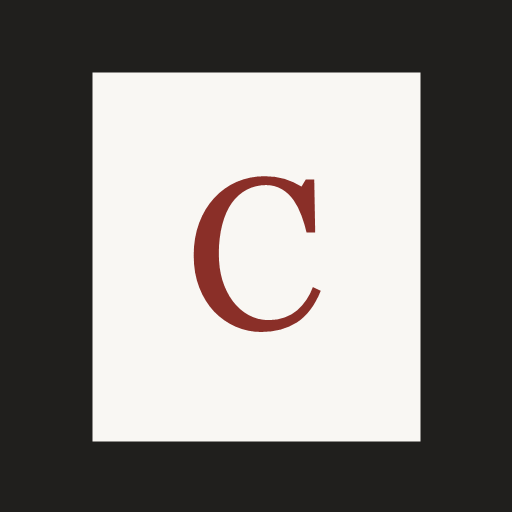
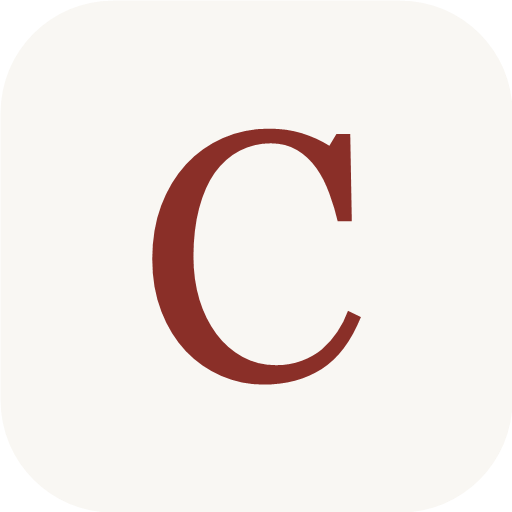
Ícono sin fondo negro
El ícono pasa a ser la hoja color papel con la C roja, de borde a
borde, y suma una versión adaptable (maskable) para que el sistema
pueda recortarlo en círculo o cuadrado sin que asome el negro.

diff --git a/sw.js b/sw.js
@@ -1,6 +1,6 @@
 // Guarda la app en caché para que funcione sin conexión.
 // Al cambiar archivos de la app, subí VERSION para que se actualice.
-const VERSION = 'capital-v21';
+const VERSION = 'capital-v22';
 const CORE = [
   './',
   'index.html',
@@ -14,6 +14,7 @@ const CORE = [
   'manifest.webmanifest',
   'icons/icon-192.png',
   'icons/icon-512.png',
+  'icons/icon-maskable-512.png',
   'vendor/vditor/dist/index.min.js',
   'vendor/vditor/dist/index.css',
   'vendor/vditor/dist/js/lute/lute.min.js',
